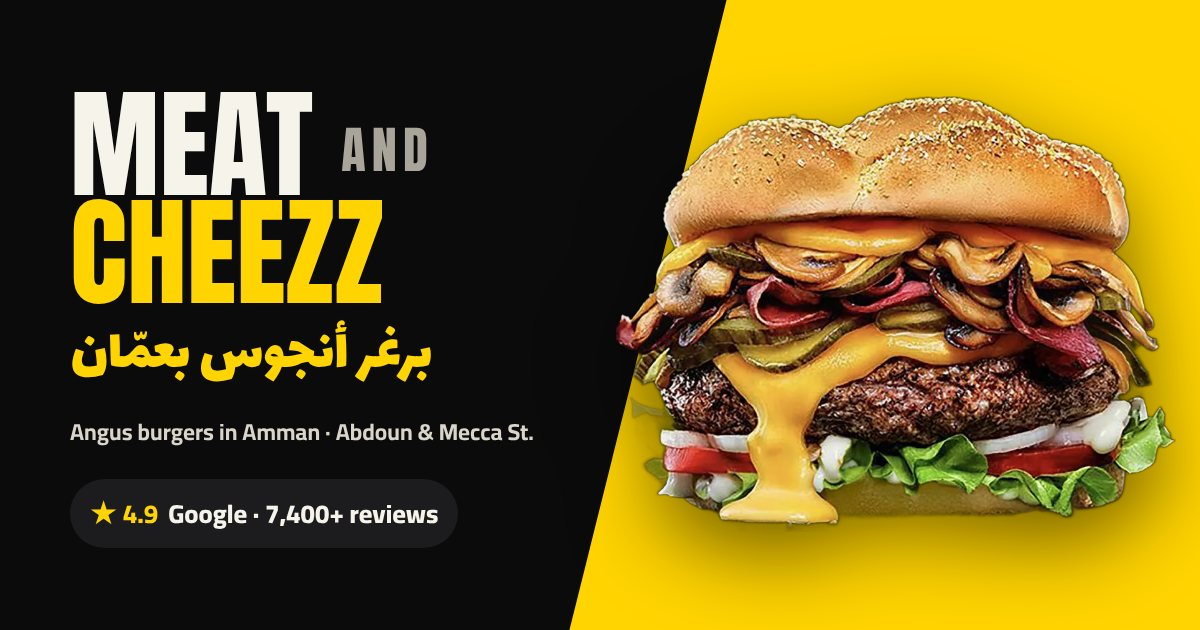
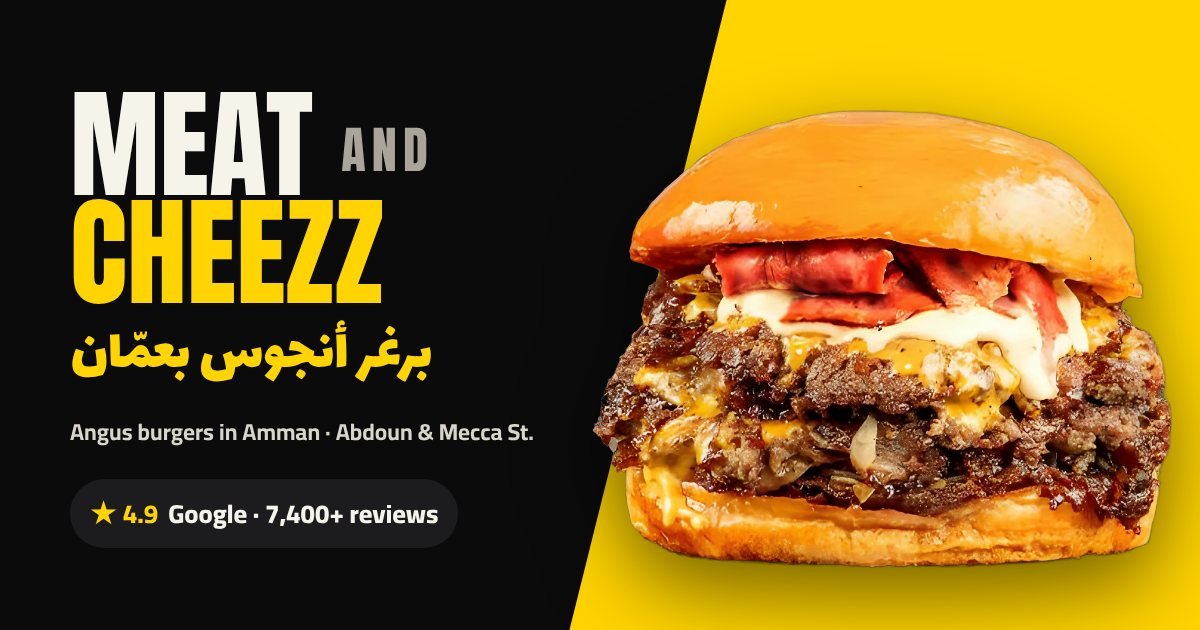
Replace the old hero burger with the Smash Burger
- Share/preview image (og.jpg) now shows the Smash Burger; URL versioned
  so WhatsApp/Instagram refresh their cached preview
- Delete the unused old hero burger images (hero*.webp)

Claude-Session: https://claude.ai/code/session_017ZCLZZBXT97hZk2ndntR7h

diff --git a/public/index.html b/public/index.html
@@ -13,7 +13,7 @@
 <meta property="og:type" content="website">
 <meta property="og:title" content="MEAT AND CHEEZZ — Angus burgers in Amman">
 <meta property="og:description" content="برغر أنجوس بعمّان. اطلب على واتساب من فرع عبدون أو شارع مكة.">
-<meta property="og:image" content="/img/og.jpg">
+<meta property="og:image" content="/img/og.jpg?v=2">
 <meta name="twitter:card" content="summary_large_image">
 <link rel="preload" href="/fonts/anton-latin.woff2" as="font" type="font/woff2" crossorigin>
 <link rel="preload" href="/fonts/cairo-arabic.woff2" as="font" type="font/woff2" crossorigin>
